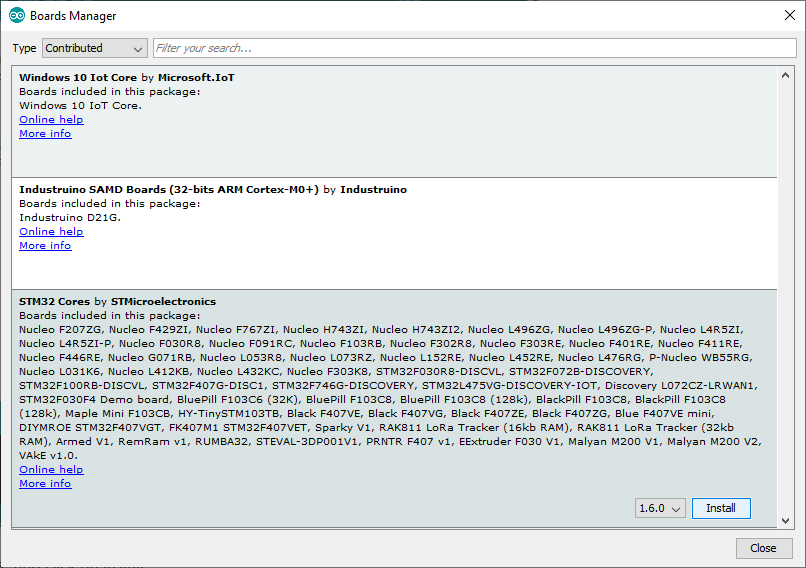
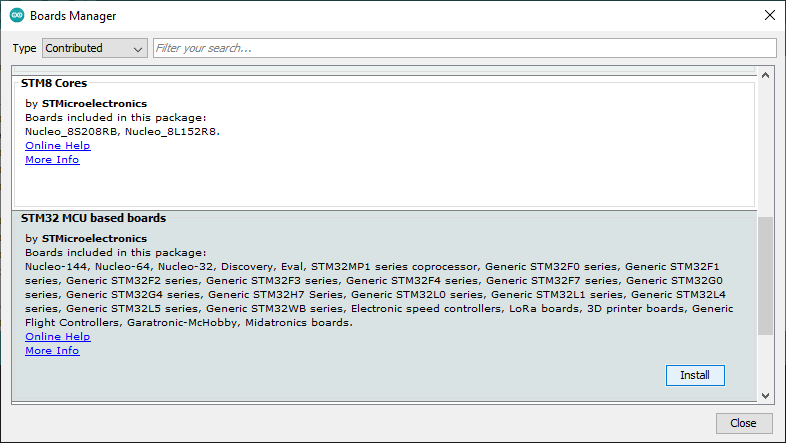
Updated several images

Changed region(s): [[0.0, 0.0, 1.0, 1.0]]

diff --git a/Getting-Started.md b/Getting-Started.md
@@ -44,7 +44,7 @@ Select "**Contributed**" type.
 
 [[img/boardsmanager.png|alt="BoardsManager dialog"]]
 
-Select the "**STM32 Cores**" and click on install.
+Select the "**STM32 MCU based boards**" and click on install.
 
 [[img/boardsmanager2.png|alt="BoardsManager dialog"]]
 
@@ -58,7 +58,7 @@ Now you can find the STM32 boards package in the "**Board**" menu.
 
 Select the desired boards series: _Nucleo-64 / Nucleo-144 / Discovery_
 
-[[img/boardslist2.png|alt="Boards list2"]]
+[[img/SelectBoard.png|alt="Select boards"]]
 
 Then you can find the Nucleo-64 boards available in a sub-menu of the "Tools" menu.
 
@@ -86,11 +86,11 @@ Else configure the proxy in the Arduino.cc IDE (open the "**Preferences**" dialo
 
 a. From the "**Tools > Board**" menu, select the STM32 board series: _Nucleo-64_
 
-  [[/img/SelectBoard.png|alt="Board selection"]]
+  [[/img/boardslist.png|alt="Board selection"]]
 
 b. Then from the "**Tools > Nucleo 64 boards**" menu, select the [Nucleo L476RG](http://www.st.com/en/evaluation-tools/nucleo-l476rg.html)
 
-  [[/img/SelectBoard2.png|alt="Board selection2"]]
+  [[/img/SelectBoard.png|alt="Board selection"]]
 
 3. Select the serial port from the "**Tools > Port**" menu
 
